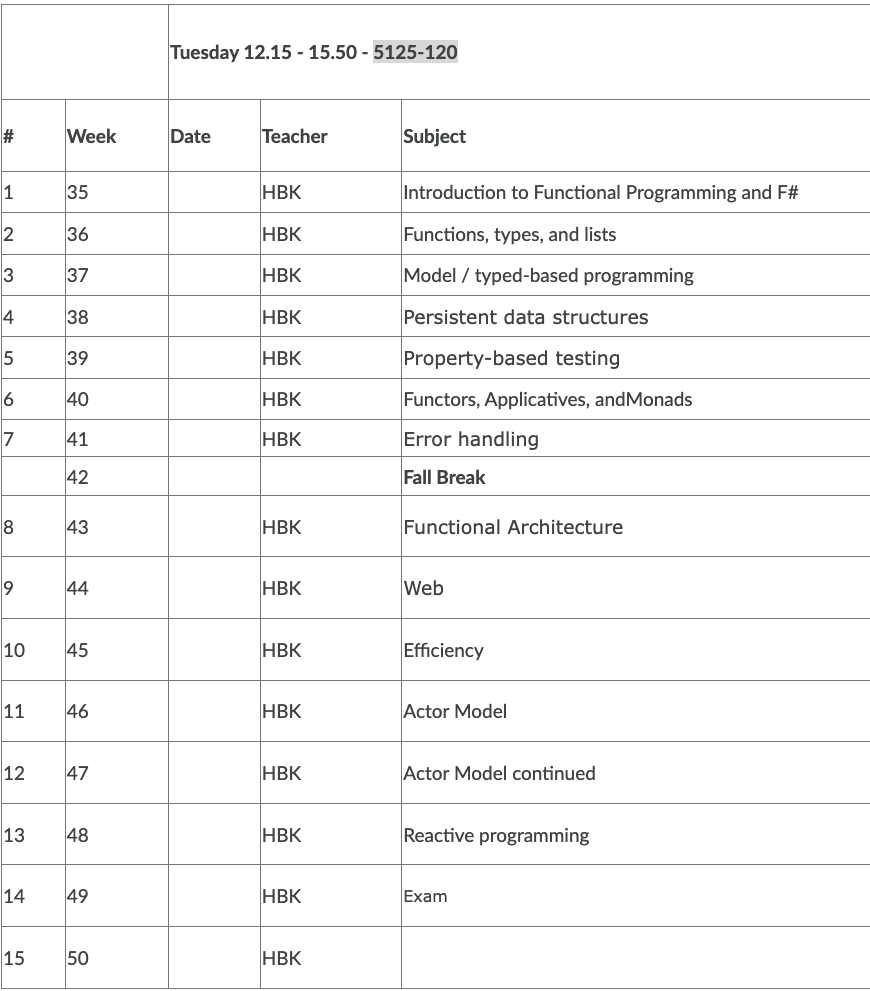
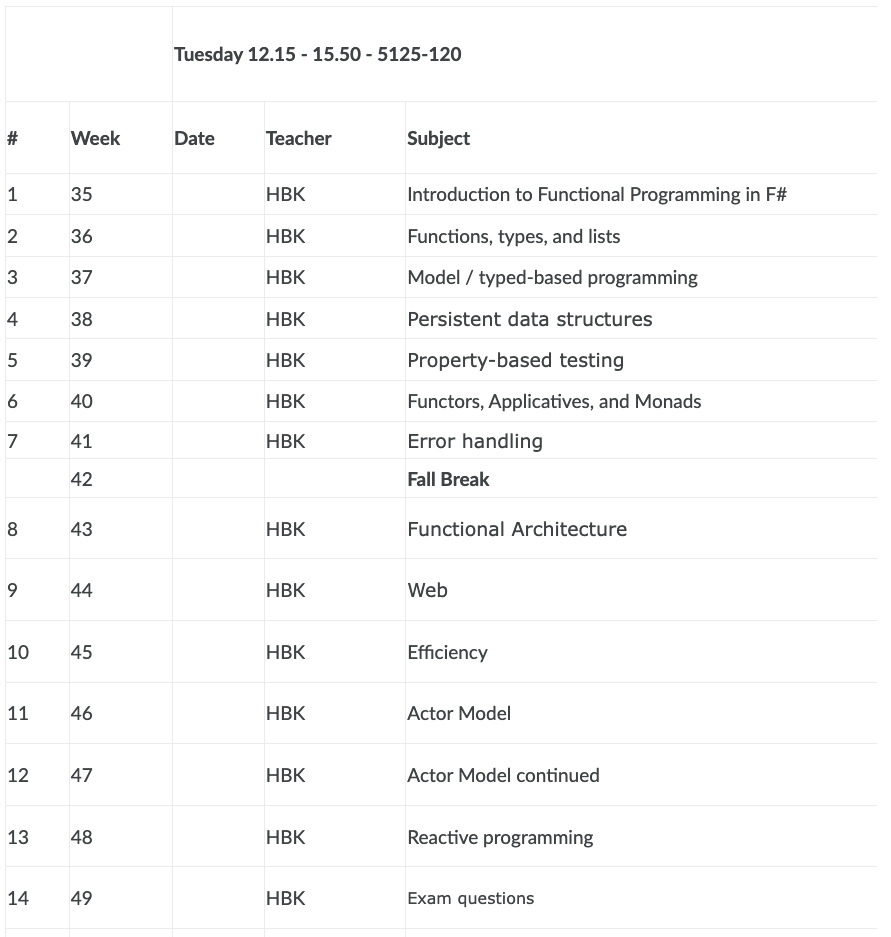
Week one slides updates

diff --git a/slides/01/01-intro.md b/slides/01/01-intro.md
@@ -7,12 +7,36 @@
 
 ----
 
+![Segmentation Fault](./img/tshirt.png "Segmention fault")
+
+
+note:
+
+- master thesis after 3 months
+  - running C++ impl af dynamic self adjusting skip list
+  - but corrupted memory
+- using the next 4 weeks to get the overnight tests running
+  - chasing bugs in 2.000 lines of code that mutated data structure all over the place
+- Realised
+   - not algorithm problem
+   - _BUT_ mutation
+- This course
+  - functional programming - not abstract theory
+  - right before you bacherlor
+    - so code to fight you. But gives you
+    - Immutability, Type safety, composition over complexity
+- after course you can
+  - write code where compiler catches errors before running it
+  - easy to test without boiler plate code
+
+
+----
+
 ## Agenda
 
-* Introduction
+* Course Introduction
 * What is FP
 * Why F\#
-* Program files
 * F\#
   * Types
   * Functions
@@ -40,17 +64,34 @@
 
 * <!-- .element: class="fragment" -->Lectures:
   * 4 hours per week
-  * ~`$\frac{1}{2}$` lecturing
-  * ~`$\frac{1}{2}$` exercises
+  * ~$\frac{1}{2}$ lecturing
+  * ~$\frac{1}{2}$ exercises
 * <!-- .element: class="fragment" -->Read before, exercises after
 
-----
-
-### Plan
-
-![Schedule](./img/Schedule.png "Schedule") <!-- .element: style="height: 600px" -->
 
 ----
+
+<!-- .slide: style="font-size:24px" -->
+
+## Schedule Competencies
+
+| Week | Topic | Capability Gained |
+|:-----|:------|:------------------|
+| 1 | Intro to FP and F# | Think declaratively, not imperatively |
+| 2 | Functions, types, lists | Compose small units into larger abstractions |
+| 3 | Model/typed-based programming | Invalid states don't compile |
+| 4 | Persistent data structures |No dangling pointers or mutation races |
+| 5 | Property-based testing |Edge cases found automatically, not by luck |
+| 6 | Functors, Applicatives, Monads | Chain computations with explicit error handling |
+| 7 | Error handling | Railway-oriented error flows - failures propagate without crashes |
+| 8 | Functional Architecture | Business logic at core, side-effects at boundaries |
+| 9 | Web | Build backends without shared mutable state |
+| 10 | Efficiency | Profile-driven optimization, not premature tuning |
+| 11-12 | Actor Model | Concurrency without race conditions |
+| 13 | Reactive programming | Event-driven systems with predictable data flow |
+
+----
+
 
 ### Expectations
 
@@ -64,9 +105,6 @@
 
 &#10067; <!-- .element: style="font-size: 160px" -->
 
-Please answer <!-- .element: class="fragment" data-fragment-index="1" -->  [Precourse form](https://forms.office.com/Pages/ResponsePage.aspx?id=Nh39Ycv-yke319DfA3ChmFfM6yOYKkRGgOhMw4EZFoNUQ0xZM1NCTEJRV0pXS01MTjFZWTZMUEczTi4u) <!-- .element:  class="fragment" data-fragment-index="1" -->
-
-![QR](./img/precourse_qe.png "") <!-- .element: style="width: 200px" class="fragment" data-fragment-index="1" -->
 
 ----
 
@@ -94,7 +132,7 @@ Fitness app (but you can choose your own domain)<!-- .element: class="fragment" 
 ### Exam
 
 - 20 minutes oral exam<br/><!-- .element: class="fragment" -->
-- <!-- .element: class="fragment" -->Draw a subject (<i>5-10</i>)<br/>
+- <!-- .element: class="fragment" -->Draw a random subject (<i>9</i> last semester)<br/>
 - <!-- .element: class="fragment" -->Explain theory <b>and</b> show how this can be applied<br/>
 - Include code when you see fit<!-- .element: class="fragment" -->
   - exercises/assignments
@@ -124,6 +162,7 @@ Applying and composing of functions
 - Declarative <!-- .element: class="fragment" data-fragment-index="0" -->  
   - Functional (F\#)
   - Logic (Prolog)
+  - Relational Algebra (SQL)
 * <!-- .element: class="fragment" data-fragment-index="1" -->  <b>in declarative programing</b> the focus is on 
   * expressing commands
   * focus on what should be accomplished
@@ -137,7 +176,7 @@ Minimize 'side-effects'
 - Changing values of variable<br/><!-- .element: class="fragment" data-fragment-index="1" -->
 - I/O<br/><!-- .element: class="fragment" data-fragment-index="2" -->
 - Throwing exceptions<br/><!-- .element: class="fragment" data-fragment-index="3" -->
-- &#9758; We are going to try minimize and control side-effects<!-- .element: class="fragment" data-fragment-index="4" -->  
+- <!-- .element: class="fragment" data-fragment-index="4" --> &#9758; We are going to try minimize and <b>control</b> side-effects<br/>
   - **not** removing them altogheter<!-- .element: class="fragment" data-fragment-index="4" -->  
 
 ----
@@ -157,12 +196,17 @@ Minimize 'side-effects'
 
 ### Advantages
 
-- Makes us better OOP developers<br/><!-- .element: class="fragment" -->
-- Help us develop more modular code<br/><!-- .element: class="fragment" -->
-- Makes writing testable code easy<br/><!-- .element: class="fragment" -->
-- Can help us write 'efficient' code<br/><!-- .element: class="fragment" -->
-- Less code -> fewer bugs<br/><!-- .element: class="fragment" -->
-- Fairly simple and clean syntax<br/><!-- .element: class="fragment" -->
+- Makes us better OOP developers<br/><!-- .element: class="fragment"  data-fragment-index="1" -->
+  - -> give you leverage for your bachelor thesis
+- Help us develop more composable code<br/><!-- .element: class="fragment"  data-fragment-index="2" -->
+- Makes writing testable code easy<br/><!-- .element: class="fragment"  data-fragment-index="3" -->
+- Can help us write 'efficient' code*<br/><!-- .element: class="fragment"  data-fragment-index="4" -->
+- Less code -> fewer bugs<br/><!-- .element: class="fragment"  data-fragment-index="5" -->
+- Fairly simple and clean syntax<br/><!-- .element: class="fragment"  data-fragment-index="6" -->
+
+
+\* Efficiency comes from compiler-correctness, not just raw speed <br/><!-- .element: class="fragment"  data-fragment-index="4" -->
+
 
 
 ----
@@ -174,6 +218,10 @@ Minimize 'side-effects'
 
 ![Learning curve FP vs OOP](./img/programming_languages_curve.png "Learning curve") <!-- .element: style="width: 500px" -->
 
+
+note:
+
+not 3 weeks but 3 months.
 
 ---
 
@@ -223,14 +271,15 @@ Creating a project*
 
 ### File order matters
 
-- <!-- .element: class="fragment" -->Create F# file <code>Library2.fs</code>
+- <!-- .element: class="fragment" data-fragment-index="1" -->Create F# file <code>Library2.fs</code>
 ```fsharp
 // Library2.fs
 module Talk =
     let reply replier = printf "Reply from %s" replier
 ```
+<!-- .element: class="fragment" data-fragment-index="1" -->
 
-- <!-- .element: class="fragment" -->Reference <code>Talk.Reply</code> from existing file
+- <!-- .element: class="fragment" data-fragment-index="2" -->Reference <code>Talk.Reply</code> from existing file
 ```fsharp
 // Library.fs
 module Say =
@@ -238,8 +287,9 @@ module Say =
         printfn "Hello %s" name
         Talk.reply "me"
 ```
+<!-- .element: class="fragment" data-fragment-index="2" -->
 
-swtafp/TestProjectCmd/Library/Library.fs(6,9): error FS0039: The value, namespace, type or module 'Talk' is not defined. Maybe you want one of the following:   tan [swtafp/TestProjectCmd/Library/Library.fsproj] <!-- .element: style="color: red; font-size: 18px" class="fragment" -->
+swtafp/TestProjectCmd/Library/Library.fs(6,9): error FS0039: The value, namespace, type or module 'Talk' is not defined. Maybe you want one of the following:   tan [swtafp/TestProjectCmd/Library/Library.fsproj] <!-- .element: style="color: red; font-size: 18px" class="fragment" data-fragment-index="3"  -->
 
 ----
 
@@ -297,7 +347,7 @@ In newer .NET projects, this is more like C#
 
 ### Signature files (.fsi)
 
-- `FileName.fsi`&nbsp;is&nbsp;signature&nbsp;file&nbsp;for&nbsp;`FileName.fs`
+- '`FileName.fsi`'&nbsp;is&nbsp;signature&nbsp;file&nbsp;for&nbsp;'`FileName.fs`'
 - Signature file describes<!-- .element: class="fragment" -->
   - Types
   - Namespaces
@@ -310,41 +360,36 @@ In newer .NET projects, this is more like C#
 
 ```fsharp
 // Module1.fsi
-
 namespace Library1
-  module Module1 =
-    val function1 : int -> int
-    type Type1 =
-        new : unit -> Type1
-        member method1 : unit -> unit
-        member method2 : unit -> unit
+
+  module Module1
+  val add : int -> int -> int
+  val multiply : int -> int -> int
+  val greet : string -> string
 ```
 
 
 ```fsharp
 // Module1.fs
-namespace Library1
+namespace Module1
 
-module Module1 =
-    let function1 x = x + 1
-
-    type Type1() =
-        member type1.method1() =
-            printfn "type1.method1"
-        member type1.method2() =
-            printfn "type1.method2"
+module Program
+  let add x y = x + y
+  let multiply x y = x * y
+  let greet name = sprintf "Hello, %s!" name
 ```
 
 ----
 
 ### Scripting files (<code>.fsx</code>)
 
-* As other scripting langauges (bash, powershell)<br/><!-- .element: class="fragment" -->
-* Is not compiled<br/><!-- .element: class="fragment" -->
-* Execute in terminal:<br/><!-- .element: class="fragment" -->
+* As other scripting langauges (bash, powershell)<br/><!-- .element: class="fragment" data-fragment-index="1"  -->
+* Is not compiled<br/><!-- .element: class="fragment" data-fragment-index="2" -->
+* Execute in terminal:<br/><!-- .element: class="fragment" data-fragment-index="3" -->
 ```bash
 $ dotnet fsi filename.fsx
 ```
+<!-- .element: class="fragment" data-fragment-index="3" -->
 
 ---
 
@@ -442,18 +487,20 @@ String.length "Hello f#"
 
 ### Bindings
 
-- <!-- .element: class="fragment" -->variables
+- <!-- .element: class="fragment" data-fragment-index="2" -->variables
 ```fsharp
 let phi = 3.14159
 // val phi : float = 3.14159
 ```
-- <!-- .element: class="fragment" -->functions 
+<!-- .element: class="fragment" data-fragment-index="2" -->
+- <!-- .element: class="fragment" data-fragment-index="3" -->functions 
 ```fsharp
 let identity a = a
 // val identity: a: 'a -> 'a
 let max x y = if x > y then x else y
 // val max : x:'a -> y:'a -> 'a when 'a : comparison
 ```
+<!-- .element: class="fragment" data-fragment-index="3" -->
 
 ----
 
@@ -491,8 +538,8 @@ let maxInt (x: int) y = if x > y then x else y
 
 - <!-- .element: class="fragment" data-fragment-index="1" -->Factorial definition: 
   - `0! = 1`
-  - `n! = n * ((n-1)!)` for `n > 0`
-- <!-- .element: class="fragment" data-fragment-index="2" -->In F\#
+  - `n! = n * ((n-1)!)` - for n > 0
+- <!-- .element: class="fragment" data-fragment-index="2" -->In F#
    - Keyword '`rec`'
    
 ```fsharp
@@ -500,7 +547,7 @@ let rec factorial n =
   if (n = 0) then 1
   else n * factorial (n-1)
 ```
-<!-- .element: class="fragment" data-fragment-index="3" -->
+<!-- .element: class="fragment" data-fragment-index="2" -->
 
 ----
 
@@ -600,18 +647,21 @@ match result with
 
 ### Construction
 
-- <!-- .element: class="fragment" -->Building list can be done staticly with the <code>[]</code> list constructor
+- <!-- .element: class="fragment" data-fragment-index="2" -->Building list can be done staticly with the <code>[]</code> list constructor
 ```fsharp
 let l1 = [1; 2; 3; 4; 5]
 ```
-- <!-- .element: class="fragment" -->or dynamicly with the <code>::</code> (<b>cons</b> operator)
+<!-- .element: class="fragment" data-fragment-index="2" -->
+- <!-- .element: class="fragment" data-fragment-index="3" -->or dynamicly with the <code>::</code> (<b>cons</b> operator)
 ```fsharp
 let l2 = 1::2::3::4::5::[]
 ```
-- <!-- .element: class="fragment" --><code>::</code> is right-assiciative
+<!-- .element: class="fragment" data-fragment-index="3" -->
+- <!-- .element: class="fragment" data-fragment-index="4" --><code>::</code> is right-assiciative
 ```fsharp
 let l3 = 1::(2::(3::(4::(5::[]))))
 ```
+<!-- .element: class="fragment" data-fragment-index="4" -->
 
 ----
 
@@ -654,35 +704,37 @@ We will get back to the List module in next week<!-- .element: class="fragment" 
 ### Functions on list
 
 
-- <!-- .element:  class="fragment" -->Defining a sum function for lists
+- <!-- .element: class="fragment" data-fragment-index="2" -->Defining a sum function for lists
 ```fsharp
 let rec sum l =
     if List.isEmpty l
     then 0
     else List.head l + sum (List.tail l)
 ```
-- or with pattern matching <!-- .element:  class="fragment" -->
+<!-- .element: class="fragment" data-fragment-index="2" -->
+- or with pattern matching <!-- .element: class="fragment" data-fragment-index="3" -->
 ```fsharp
 let rec sum l =
     match l with
     | [] -> 0
     | (x::xs) -> x + sum xs
 ```
-
+<!-- .element: class="fragment" data-fragment-index="3" -->
 
 
 ----
 
 ### Two things about last example
 
-* <!-- .element:  class="fragment" -->Pattern matching
+* <!-- .element: class="fragment" data-fragment-index="2" -->Pattern matching
   * decompose <b>any</b> data structures directly in the match expression
-* <!-- .element: class="fragment" --> '<code>function</code>' vs '<code>match x with</code>'
+* <!-- .element: class="fragment" data-fragment-index="3" -->'<code>function</code>' vs '<code>match x with</code>'
 ```fsharp
 let rec sum = function
   | [] -> 0
   | (x::xs) -> x + sum xs
 ```
+<!-- .element: class="fragment" data-fragment-index="3" -->
 
 ---
 
